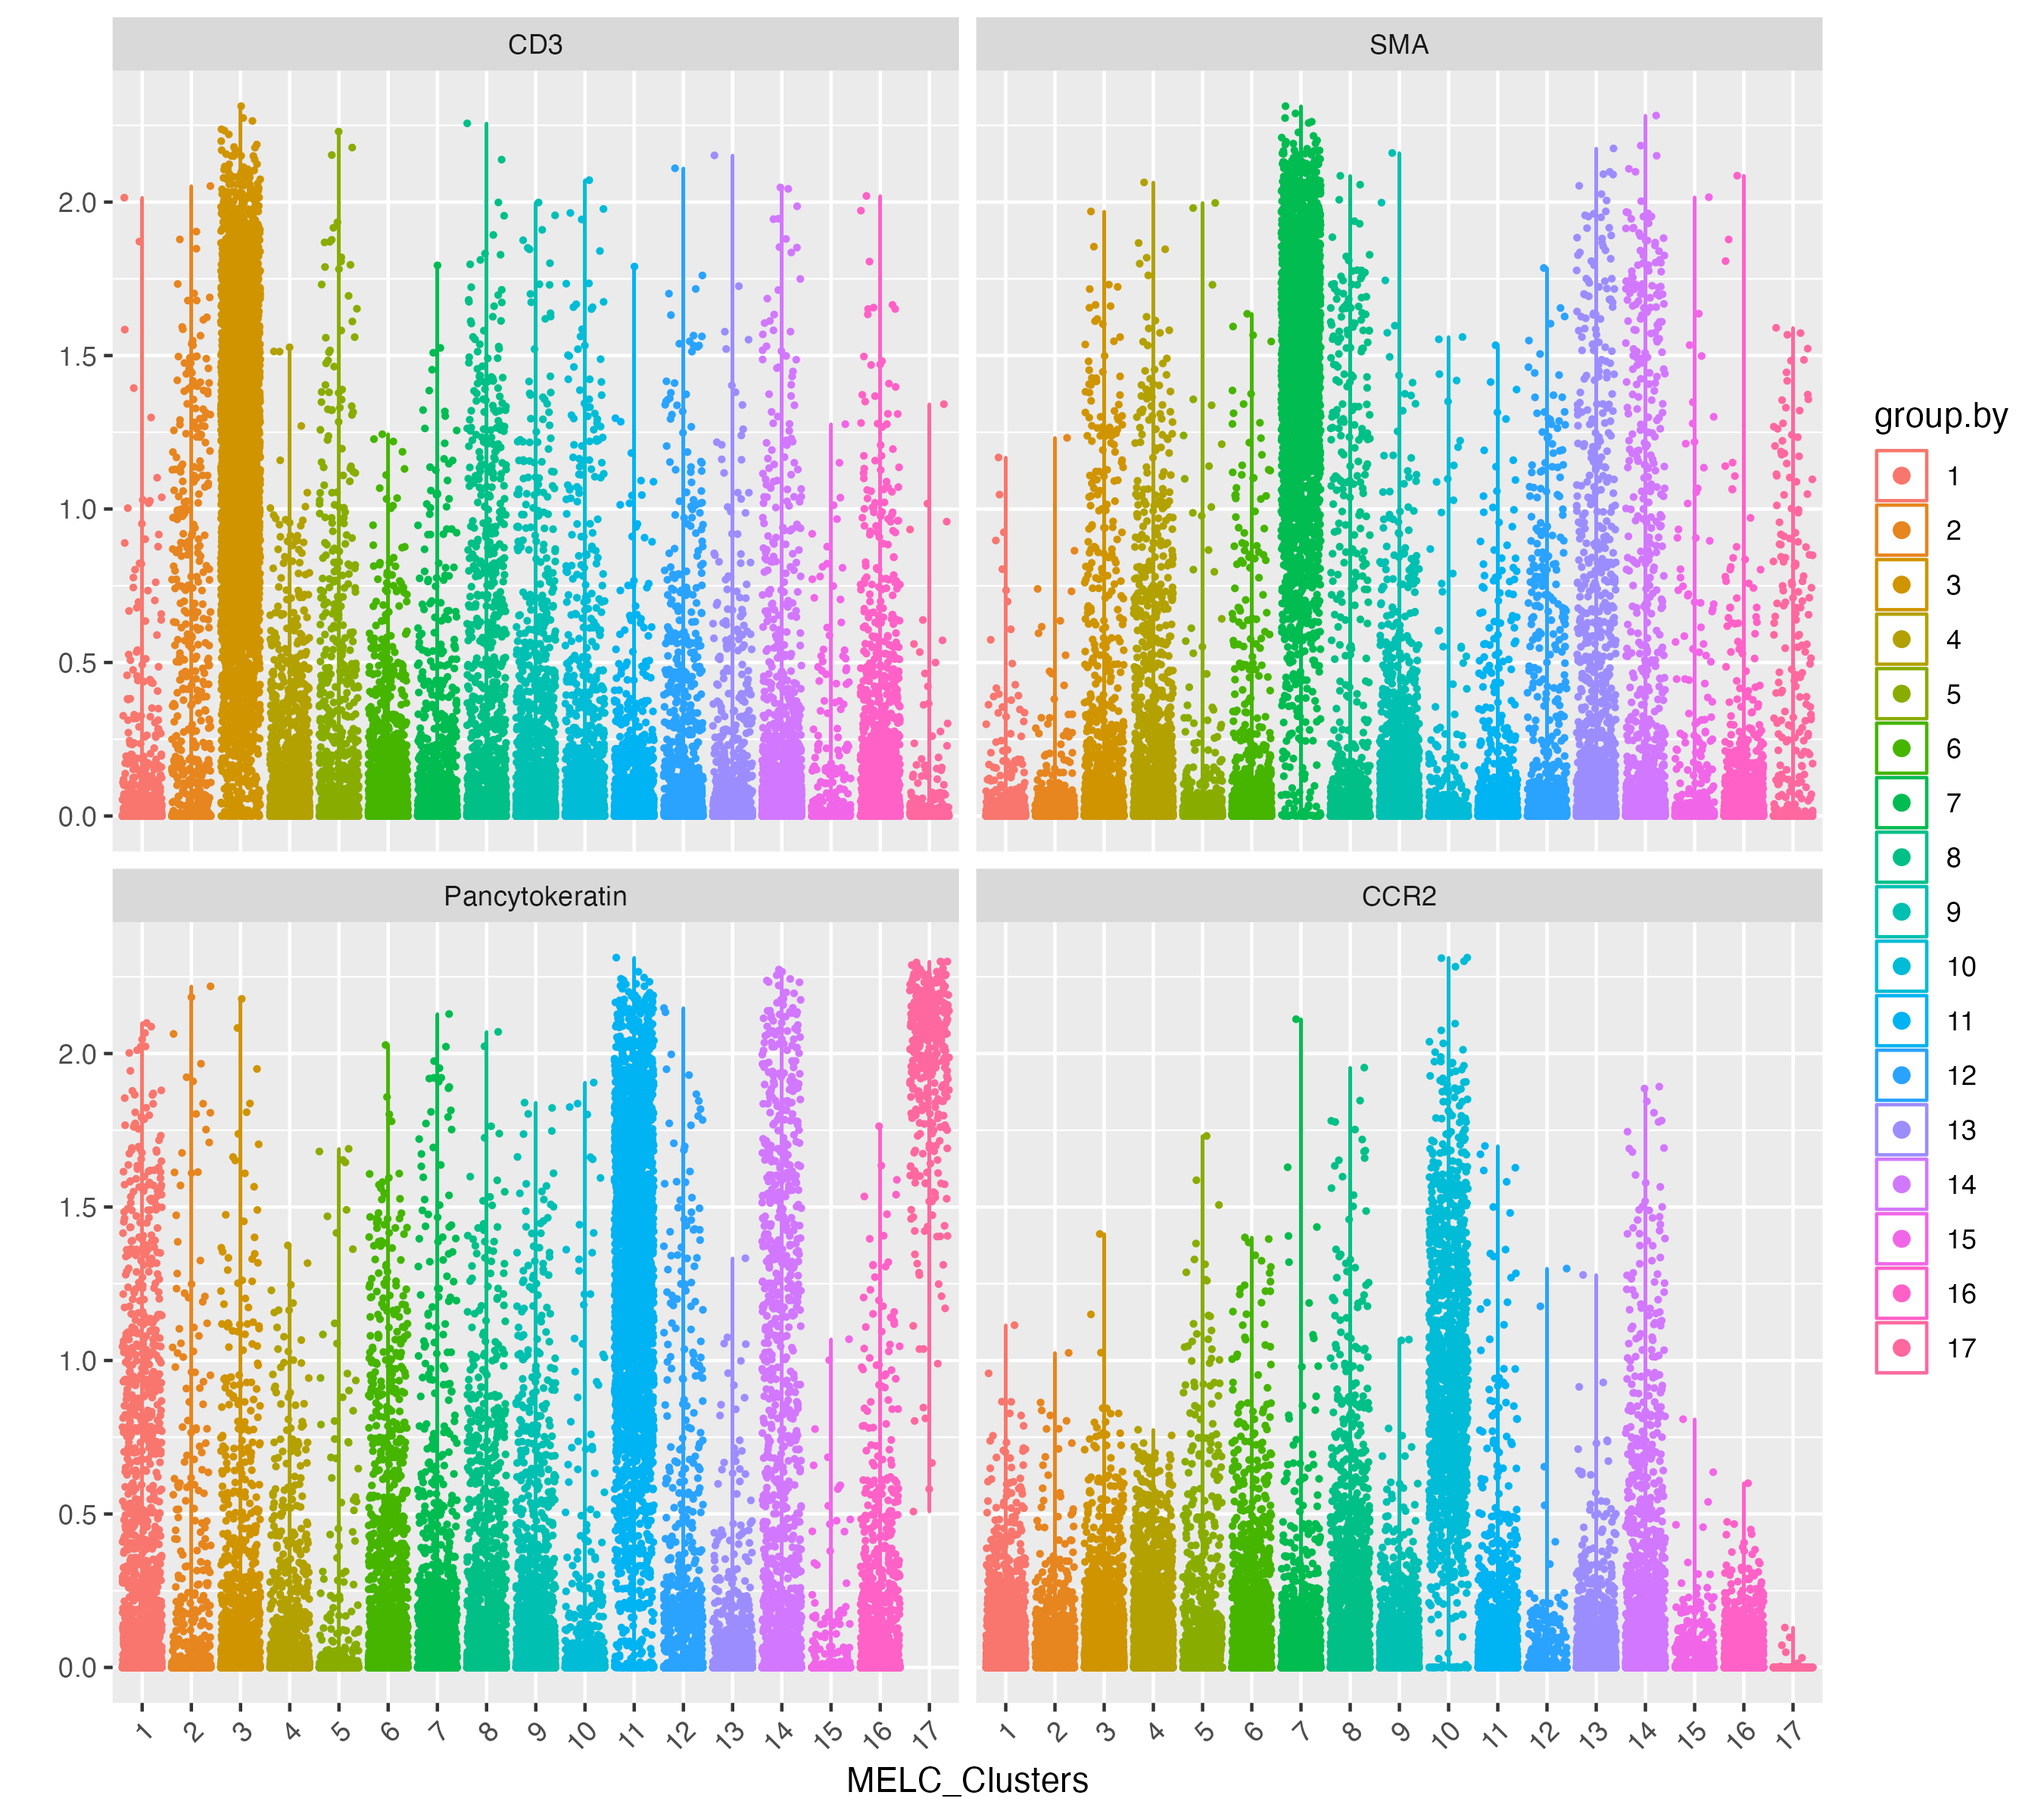
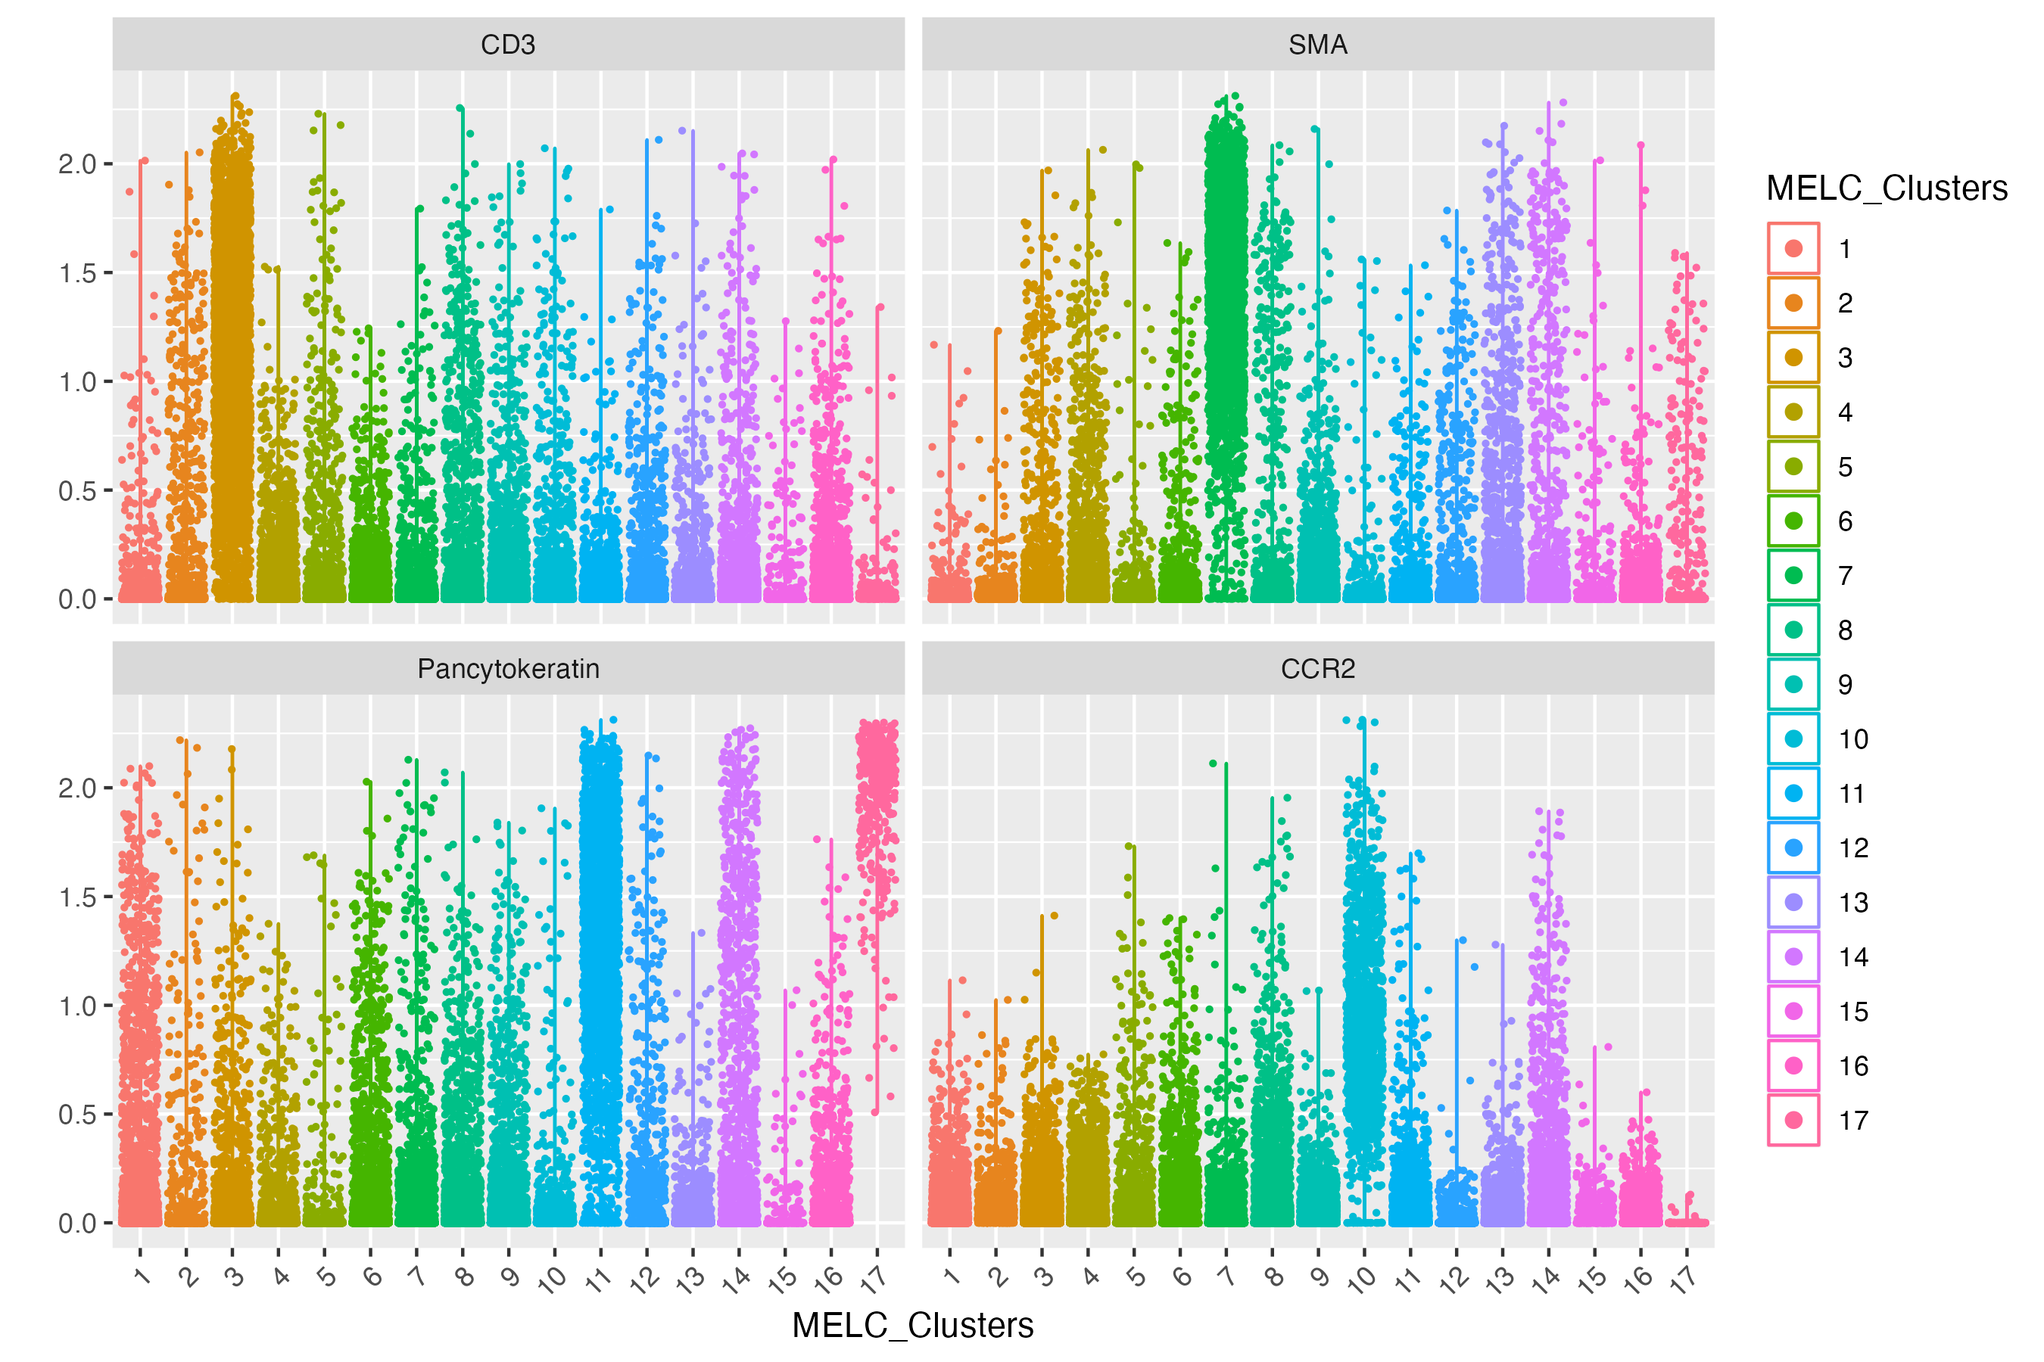
update cell/spot analysis tutorial

diff --git a/docs/spotanalysis.html b/docs/spotanalysis.html
@@ -412,6 +412,9 @@ div.tocify {
 
 
 <style>
+.title{
+  display: none;
+}
 body {
   text-align: justify
 }
@@ -430,10 +433,11 @@ body {
 <div id="downstream-analysis-on-cells" class="section level1">
 <h1>Downstream analysis on Cells</h1>
 <p>VoltRon is also an end-to-end spatial data analysis package which
-supports investigating spatial points in single cell resolution. VoltRon
-includes some essential built-in functions capable to filtering,
-processing and clustering as well as visualizing datasets on both
-spatial and embeddings domains.</p>
+supports investigating spatial points in any level of resoluion
+including single cell. VoltRon includes some essential built-in
+functions capable to filtering, processing and clustering as well as
+visualizing datasets on cells with a goal of cell type discovery and
+annotation.</p>
 <p>In this use case, we analyzed cells segmented from microscopy images
 of <strong>control and COVID-19 lung tissues</strong> of donors
 categorized based on disease durations (control, acute and prolonged).
@@ -443,7 +447,7 @@ href="https://www.ncbi.nlm.nih.gov/geo/query/acc.cgi?acc=GSE190732">GSE190732</a
 for more information.</p>
 <p>We analyze cells characterized by multi-epitope ligand cartography
 (MELC) with a panel of 44 parameters. We use the already segmented cells
-which 42 protein expression features mapped on these cells.</p>
+which expression of 43 protein features mapped on these cells.</p>
 <p>We first import the protein intensities, metadata and coordinates
 associated with segmented cells across FOVs of samples.</p>
 <pre class="r watch-out"><code># csv file
@@ -458,12 +462,13 @@ coords &lt;- as.matrix(IFdata[,c(&quot;posX&quot;,&quot;posY&quot;)], rownames.f
 <p>First, we normalize the data using the hyperbolic arcsine function
 with a scale argument of 0.2.</p>
 <pre class="r watch-out"><code>data &lt;- asinh(data/0.2)</code></pre>
-<p>Before the downsteam analysis on the MELC assays of cells across
-FOVs, we should separate each individual FOV/Section to a VoltRon object
-by using the <strong>formVoltron</strong> function where each object has
-only one section, then merge these sections using the sample of origins.
-We can also define assay names, types and sample (i.e. block) names of
-these assays.</p>
+<p>Before analyzing MELC assays of cells across FOVs, we should define a
+VoltRon object for each individual FOV/Section by using the
+<strong>formVoltron</strong> function where each object has only one
+section. We then merge these sections to respective tissue blocks using
+the sample of origins. We can also define assay names, types and sample
+(i.e. block) names of these objects using
+<strong>formVoltron</strong>.</p>
 <pre class="r watch-out"><code>vr_list &lt;- list()
 sample_metadata &lt;- metadata %&gt;% select(Sample, FOV, Section) %&gt;% distinct()
 for(i in 1:nrow(sample_metadata)){
@@ -475,8 +480,11 @@ for(i in 1:nrow(sample_metadata)){
                                            main.assay = &quot;MELC&quot;, assay.type = &quot;cell&quot;,
                                            sample_name = vrassay$Section)
 }</code></pre>
-<p>In addition, we flip the coordinates of the images and and then
-resize these images.</p>
+<p>In addition, we can flip the coordinates of the images and and then
+resize these images. The main reason for this coordinate flipping is
+that the y-axis of most digital images are of the opposite direction to
+the y-axis of euclidean space. Hence, VoltRon offers the option to flip
+images using <strong>flipCoords</strong> function.</p>
 <pre class="r watch-out"><code>for(i in 1:nrow(sample_metadata)){
   vrassay &lt;- sample_metadata[i,]
   vr_list[[vrassay$Sample]] &lt;- flipCoords(vr_list[[vrassay$Sample]])
@@ -485,13 +493,29 @@ resize these images.</p>
 <p>Finally, we merge these assays into one VoltRon object. The
 <strong>samples</strong> arguement in the merge function determines
 which assays are layers of a single tissue sample/block.</p>
-<pre class="r watch-out"><code>vr_merged &lt;- merge(vr_list[[1]], vr_list[-1], samples = sample_metadata$Sample)</code></pre>
+<pre class="r watch-out"><code>vr_merged &lt;- merge(vr_list[[1]], vr_list[-1], samples = sample_metadata$Sample)
+vr_merged </code></pre>
+<pre><code>VoltRon Object 
+control_case_3: 
+  Layers: Section1 Section2 
+control_case_2: 
+  Layers: Section1 Section2 
+control_case_1: 
+  Layers: Section1 Section2 Section3 
+acute_case_3: 
+  Layers: Section1 Section2 
+acute_case_1: 
+  Layers: Section1 Section2 
+... 
+There are 13 samples in total 
+Assays: MELC(Main) </code></pre>
 </div>
 <div id="dimensionality-reduction" class="section level2">
 <h2>Dimensionality Reduction</h2>
 <p>Lets visualize some protein features on tissue sections. We can
-either use the DAPI images as a background, or select either “black” or
-“white” backgrounds (e.g. <strong>background = “white”</strong>)</p>
+either use the DAPI images as a background (e.g. <strong>background =
+image</strong>), or select either “black” or “white” backgrounds
+(e.g. <strong>background = “white”</strong>).</p>
 <pre class="r watch-out"><code>vr_subset &lt;- subset(vr_merged, samples = &quot;control_case_1&quot;)
 g1 &lt;- vrSpatialFeaturePlot(vr_subset, features = c(&quot;CollagenIV&quot;, &quot;CD11b&quot;), alpha = 1, pt.size = 0.7)</code></pre>
 <p><img width="70%" height="70%" src="images/cellspot_spatialfeature.png" class="center"></p>
@@ -510,13 +534,13 @@ embedding spaces.</p>
 <div id="clustering" class="section level2">
 <h2>Clustering</h2>
 <p>Next, we build neighborhood graphs using the k-nearest neighbor
-graphs of similarity between dimensionally reduced gene expression
-profiles. Using this graph, we can conduct a clustering of cells using
-leiden’s method.</p>
+graphs of cells using dimensionally reduced gene expression profiles. We
+can conduct a clustering of cells using leiden’s method.</p>
 <pre class="r watch-out"><code>vr_merged &lt;- getNeighbors(vr_merged, dims = 1:10, k = 10, method = &quot;kNN&quot;)
 vr_merged &lt;- getClusters(vr_merged, resolution = 0.8, label = &quot;MELC_Clusters&quot;)</code></pre>
-<p>Now we can visualize these clusters and perhaps check for
-inter-condition effects that may reside across the data.</p>
+<p>Now we can visualize these clusters and perhaps check for possibly
+existing inter-condition variances that may reside across within the
+data.</p>
 <pre class="r watch-out"><code>Metadata(vr_merged)$Condition &lt;- gsub(&quot;_[0-9]$&quot;, &quot;&quot;, Metadata(vr_merged)$Sample)
 g1 &lt;- vrEmbeddingPlot(vr_merged, group.by = c(&quot;Condition&quot;), embedding = &quot;umap&quot;)
 g2 &lt;- vrEmbeddingPlot(vr_merged, group.by = c(&quot;MELC_Clusters&quot;), embedding = &quot;umap&quot;, label = TRUE)
@@ -526,13 +550,16 @@ g1 | g2</code></pre>
 </div>
 <div id="visualization" class="section level2">
 <h2>Visualization</h2>
+<p>VoltRon provides both violin plots (vrViolinPlot) and heatmaps
+(vrHeatmapPlot) to further investigate the enrichment of markers across
+newly clustered dataset.</p>
 <pre class="r watch-out"><code>vrHeatmapPlot(vr_merged, features = vrFeatures(vr_merged), 
               group.by = &quot;MELC_Clusters&quot;, show_row_names = TRUE)</code></pre>
 <p><img width="100%" height="100%" src="images/cellspot_heatmapclusters.png" class="center"></p>
 <p><br></p>
 <pre class="r watch-out"><code>vrViolinPlot(vr_merged, features = c(&quot;CD3&quot;, &quot;SMA&quot;, &quot;Pancytokeratin&quot;, &quot;CCR2&quot;), 
              group.by = &quot;MELC_Clusters&quot;, ncol = 2)</code></pre>
-<p><img width="100%" height="100%" src="images/cellspot_violinclusters.png" class="center"></p>
+<p><img width="100%" height="80%" src="images/cellspot_violinclusters.png" class="center"></p>
 <p><br></p>
 </div>
 </div>
